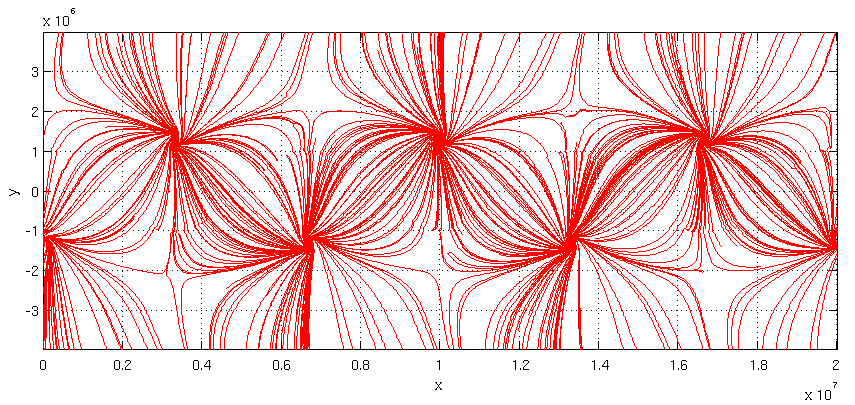
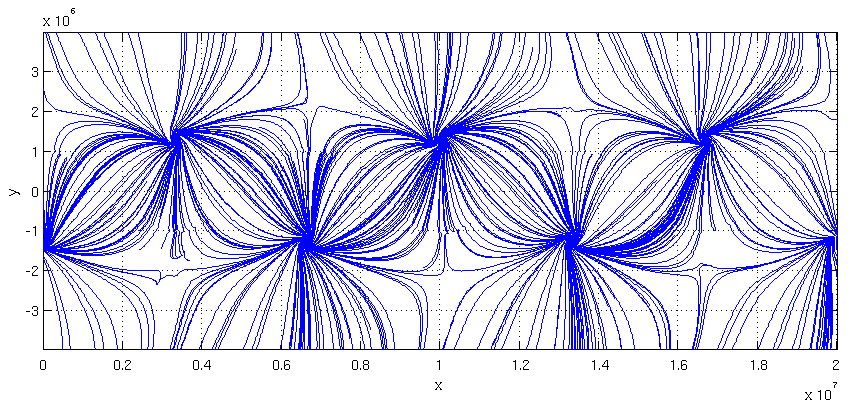
Update bickley jet stretchline demo colors

diff --git a/demo/bickley_jet/stretchlines.m b/demo/bickley_jet/stretchlines.m
@@ -26,12 +26,17 @@ method.name = 'finiteDifference';
 customEigMethod = false;
 coupledIntegration = true;
 
+% Plot control parameters
+forwardLcsColor = 'b';
+backwardLcsColor = 'r';
+
 %% Forward-time stretchlines
 bickleyJet.flow = set_flow_timespan([0,4*lengthX/u],bickleyJet.flow);
 [bickleyJet.flow.cgEigenvalue,bickleyJet.flow.cgEigenvector] = eig_cgStrain(bickleyJet.flow,method,customEigMethod,coupledIntegration);
 bickleyJet.stretchline.position = compute_stretchline(bickleyJet.flow,bickleyJet.stretchline);
 hAxes = setup_figure(bickleyJet.flow.domain);
-cellfun(@(position)plot(hAxes,position(:,1),position(:,2)),bickleyJet.stretchline.position);
+hStretchline = cellfun(@(position)plot(hAxes,position(:,1),position(:,2)),bickleyJet.stretchline.position);
+set(hStretchline,forwardLcsColor)
 title(hAxes,'Forward-time Stretchlines')
 drawnow
 
@@ -41,5 +46,5 @@ bickleyJet.flow = set_flow_timespan([4*lengthX/u,0],bickleyJet.flow);
 bickleyJet.stretchline.position = compute_stretchline(bickleyJet.flow,bickleyJet.stretchline);
 hAxes = setup_figure(bickleyJet.flow.domain);
 hStretchline = cellfun(@(position)plot(hAxes,position(:,1),position(:,2)),bickleyJet.stretchline.position);
-set(hStretchline,'color','r')
+set(hStretchline,'color',backwardLcsColor)
 title(hAxes,'Backward-time Stretchlines')
